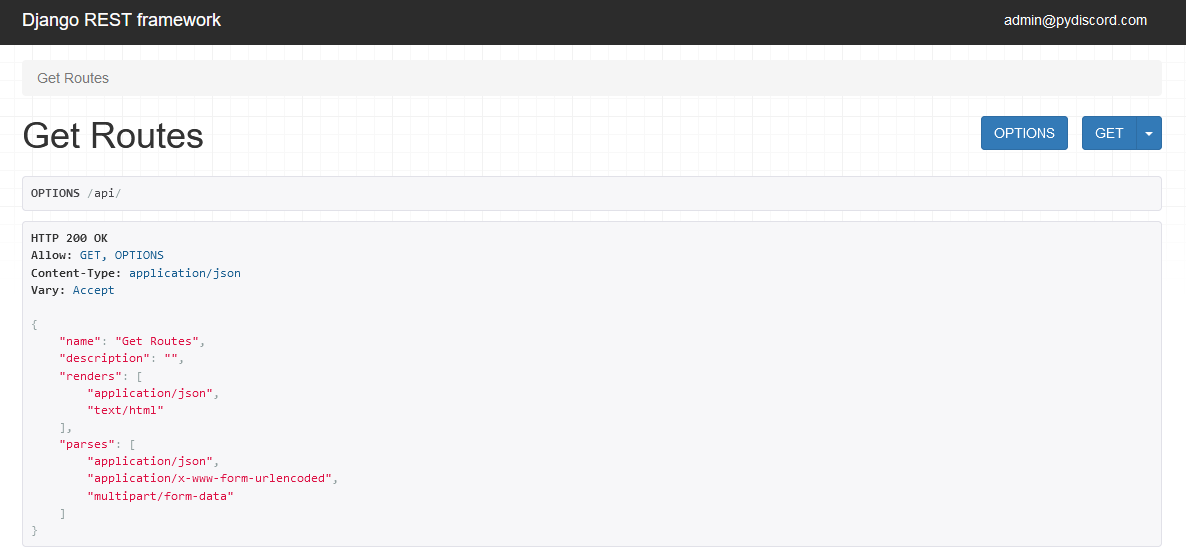
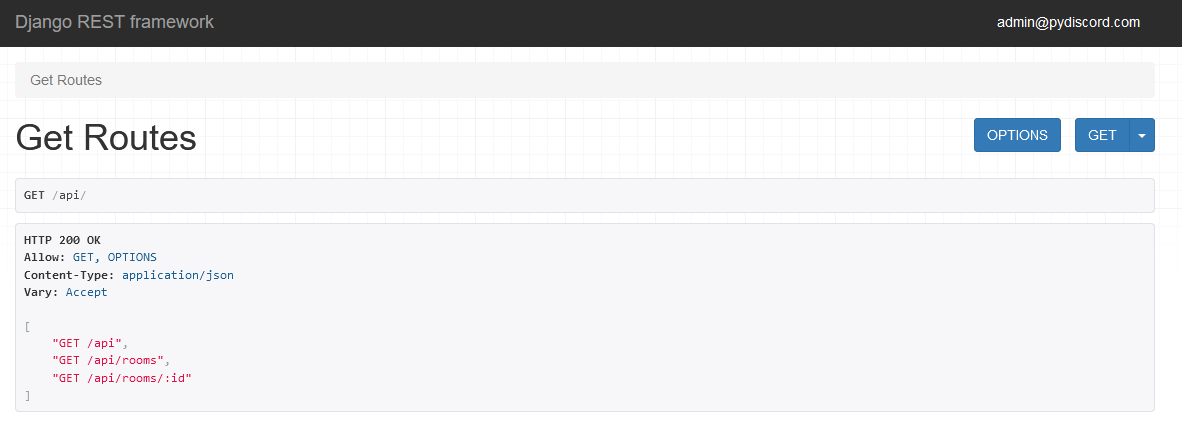
readme, styling, pic fix

diff --git a/README.md b/README.md
@@ -3,7 +3,7 @@ Yet another Discord ripoff in Python for fooling around with Django.
 
 ## What can you do with it?
 - Get a sneakpeak how can you create something similar in Django
-- Create some conversations
+- CRUD some conversations/messages
 - Talk with yourself using different accounts
 - Pretend to be a site admin
 - Curl some request to basic API
@@ -20,17 +20,28 @@ Yet another Discord ripoff in Python for fooling around with Django.
 
 If you just want to run it with default config for superuser replace command in `2.` with `python utils/super_super_env.py`
 
+Then you can create users, rooms
+
 ## How does it look with some users?
 ### Main
 <img width="1024" src="./showcase/main.png" alt="main img">
 
+In order to see this, you would need to create new users, apart from the existing admin, give them some avatars and populate rooms/conversations.
+Or I could upload the `db.sqlite3` if there was a need for it.
+
 ### Room
 <img width="1024" src="./showcase/room.png" alt="room img">
+
+Some random conversation between random profiles.
 
 ### Profile
 <img width="1024" src="./showcase/profile.png" alt="profile img">
 
+Example profile page of the big croissant guy.
+
 ### API
 <img width="1024" src="./showcase/api.png" alt="api img">
+
+Very complicated API with endpoints for getting all the rooms or some particular by its id.
 
 CSS and style inspired by Dennis Ivy one
